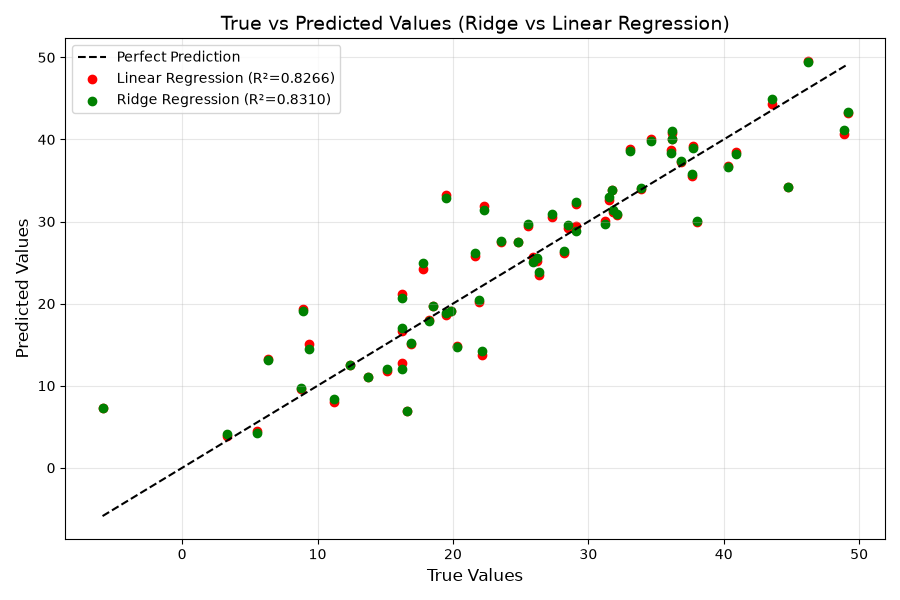
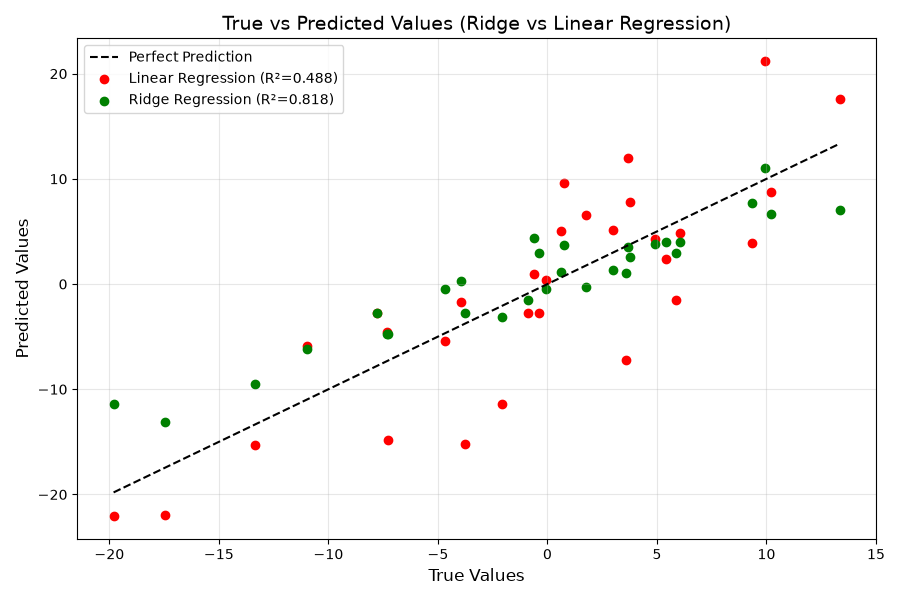
lasso regression, and coefficient sum up rather square when calculating the penalty, as a result increase alpha value, coefficent for x will get to 0 for some independent variable, mean slope become zero while scalling down and accordingly only highly relevant independent variable or predictor stay 

diff --git a/machine_learning/linear_models/3-lasso_regression.py b/machine_learning/linear_models/3-lasso_regression.py
@@ -1,0 +1,11 @@
+#!/usr/bin/env python3
+"""module that evaluate regression model
+using Scikit-learn.
+"""
+from sklearn import linear_model
+
+
+def lasso_regression(random_state):
+    """to tune regression model using lasso regression."""
+    model = linear_model.Lasso(random_state=random_state)
+    return model
